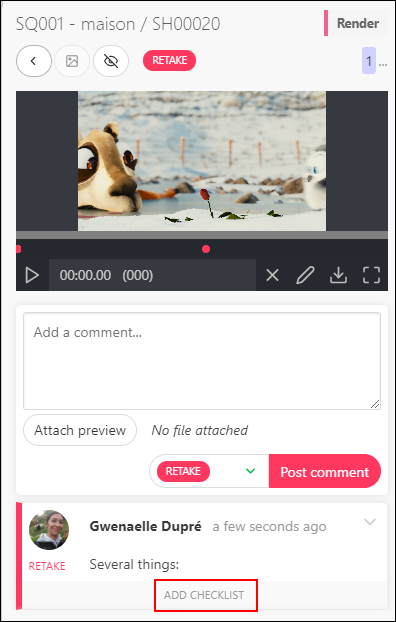
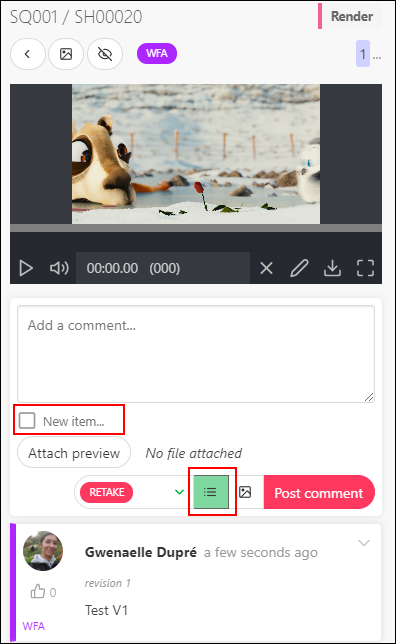
getting started update

diff --git a/docs/getting-started-production/README.md b/docs/getting-started-production/README.md
@@ -740,6 +740,7 @@ Nearby the name of your custom column, click on the arrow ![Custom Column detail
 
 You can also use the **CSV Import** to fill quickly your custom column.
 You need to first create your **Custom Column** into kitsu, then add it in your spreadhseet, then copy paste your data into the **CSV Import**.
+[Update Shots information with CSV Import](#update-shots-information-with-csv-import)
 
 Select in the menu if you want to 
 edit the name of the custom column and its information, or you want to remove it.
@@ -794,6 +795,14 @@ The **Add preview** pop-up opens and asks you to choose a file.
 You can navigate through the pictures uploaded.
 
 ![attach preview drag drop](../img/getting-started/upload_second_pictures.png)
+
+To delete an additional preview, you need to enlarge the comment panel.
+
+![enlarge comment section](../img/getting-started/enlarge_comment.png)
+
+And then click on the ![delete button](../img/getting-started/delete_button.png)
+
+![enlarge comment section delete](../img/getting-started/enlarge_comment_delete.png)
 
 
 ## Validation per batch
@@ -884,11 +893,11 @@ performs some changes.
 
 You can add a **checklist** to your comments.
 
-You need first to post your retake comments. Then the **ADD CHECKLIST** appears.
+You need to click on the **Add checklist** button, and the first item of the checklist appears. 
 
 ![add checklist](../img/getting-started/add_checklist.png)
 
-Type your comments, and hit **Enter** key to add another line on your checklist.
+Type your comments, and hit **Enter** key to add another line on your checklist or click again on **Add Checklist** button.
 
 ![checklist](../img/getting-started/checklist_detailed.png)
 
@@ -898,6 +907,7 @@ You can also **tag** someone of the team in the comments. Type the `@`and it ope
 
 Alternatively, you can change it to ![Done](../img/getting-started/done_icon.png), to notify the CG artist
 that his work is validated.
+
 
 ## Add a thumbnail
 
@@ -920,7 +930,9 @@ You can use the **Add Thumbnails** button ![Add thumbnails button](../img/gettin
 
 A new pop-up opens and asks you to choose which task types the thumbnails are linked.
 
-**Thumbnails batch import only accept images files**
+**Thumbnails batch import accept images files and video files**.
+
+For the video files, only the first frame is used as the thumbnail.
 
 You have to name your thumbnails as sequence_shot.
 
